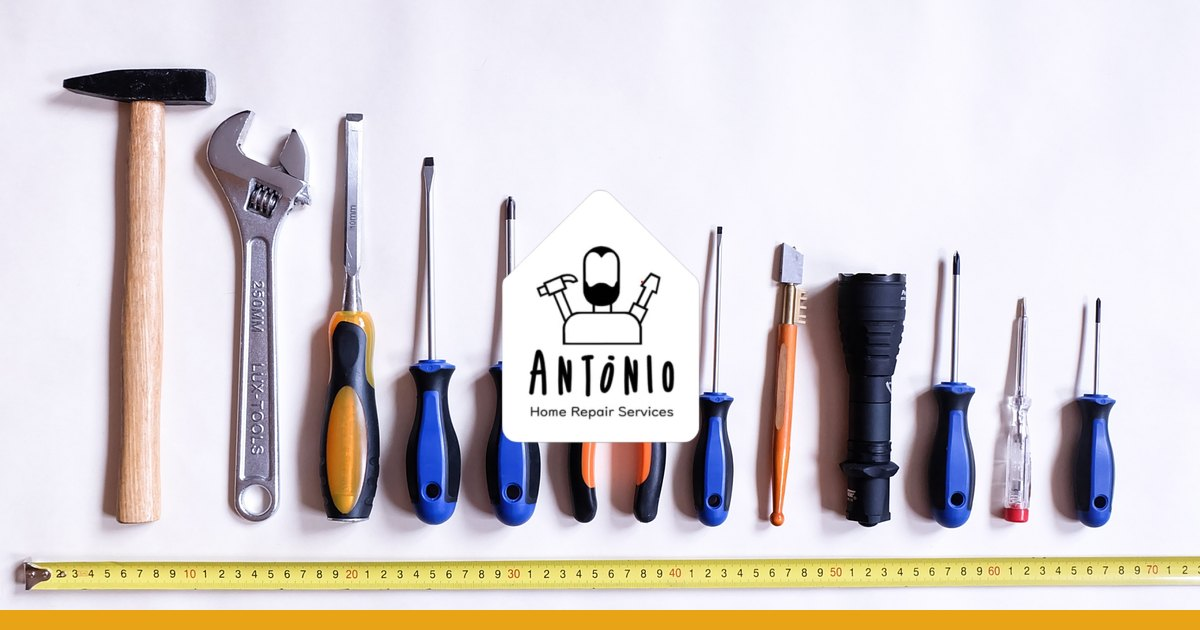
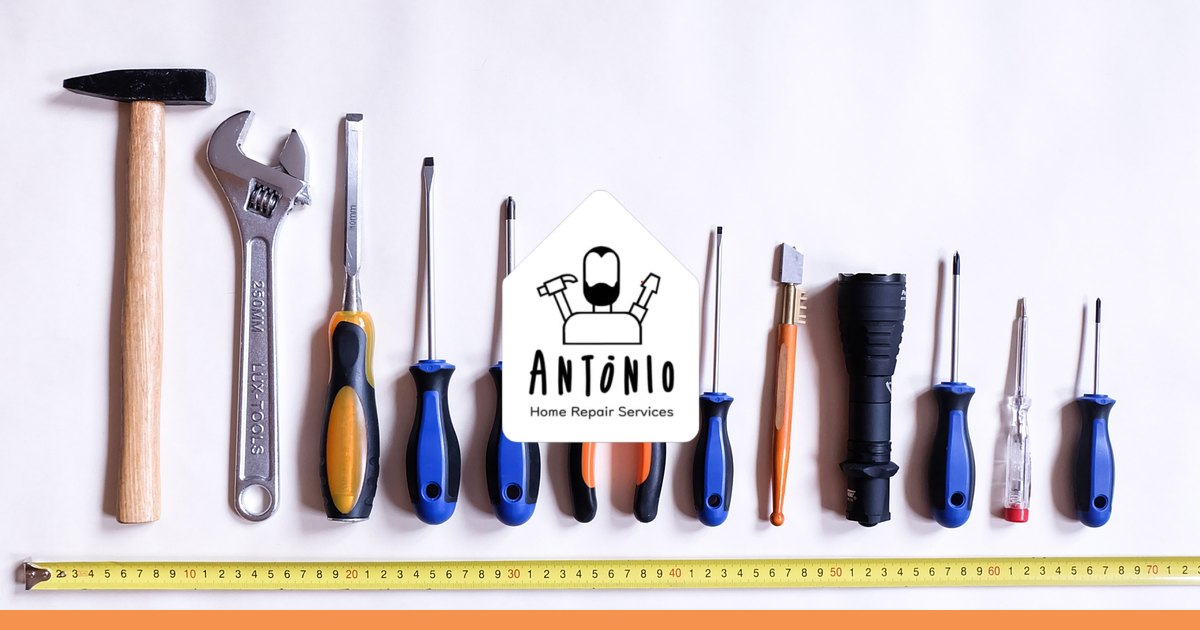
Passa a usar o laranja do cliente, com mais presença
O acento era um âmbar dourado aproximado (#E8A317). Passa a ser o laranja
que o cliente usa mesmo, o #F5924E do site antigo.

## Três tokens, e a razão é medida

O #F5924E é claro. Com preto por cima dá 8,31:1, que é excelente. Sobre o
papel dá 2,19:1 — reprova, e mais do que reprovar, quase não se vê. Serve
para preencher e não serve para desenhar.

Como metade do acento neste site são traços, glifos e filetes sobre fundo
claro — o filete dos pilares, os glifos da casa, o ponto das listas
legais, os desenhos do Sobre Nós, o sublinhado do hero —, trocar o token
por #F5924E e mais nada apagava dezasseis utilizações. Daí:

  laranja        #F5924E  fundo, com preto por cima     8,31 sobre tinta
  laranja-forte  #D16414  traço, glifo, filete, número  3,60 sobre papel
  laranja-texto  #A85410  texto pequeno sobre papel     5,06 sobre papel

Cada uma das 33 utilizações foi para o token que o seu fundo pede — não
foi substituição cega. Os seis rácios estão verificados por cálculo, não
estimados, e nenhum fica abaixo do limiar do uso a que se destina.

Os tokens mudam de nome de `ambar` para `laranja`: um token chamado âmbar
a guardar um laranja é uma mentira para quem lá chegar a seguir.

## A presença, que era o pedido

A faixa de confiança passa a banda laranja cheia, com texto e glifos
pretos. Uma tira de uma linha é o sítio certo para a cor atravessar a
página sem nunca ficar atrás de texto corrido.

Os números 01–08 dos serviços passam a laranja e a 24px. As duas coisas
[…]

Changed region(s): [[0.0, 0.9651, 1.0, 1.0]]

diff --git a/app/globals.css b/app/globals.css
@@ -6,17 +6,32 @@
 
   ## A paleta
 
-  O logo é monocromático puro. O site fica-lhe fiel: preto-tinta sobre papel
-  quente em quase toda a página, e um único âmbar.
+  O logo é monocromático puro, mas o laranja é a cor que o cliente já usa — nas
+  redes, no material impresso, e no site que este substitui. É esse laranja que
+  aqui está, o `#F5924E`, tal e qual.
 
-  **O âmbar não é cor de fundo de secção.** Aparece em botões, no sublinhado do
-  título e no estado activo — mais nada. É precisamente o que separa isto do site
-  antigo, que punha painéis inteiros de laranja #F5924E e por isso lia infantil.
+  O que **não** se repete do site antigo é a escala. Lá havia painéis inteiros
+  de laranja com corpo de texto por cima, e é isso que o faz ler amador. Aqui o
+  laranja atravessa a página em duas tiras — a faixa de confiança e o bloco de
+  fecho — e no resto vive em botões, números, filetes e glifos.
 
-  Duas variantes de âmbar, e a razão é contraste: o `--color-ambar` tem
-  luminância alta demais para texto sobre papel (fica em 2,2:1, reprovado), mas é
-  excelente como fundo de botão com texto tinta por cima (8,4:1). Quando o âmbar
-  precisa de ser *texto*, é o `--color-ambar-texto`, escurecido até passar.
+  ## Três laranjas, e a razão é medida e não gosto
+
+  O `#F5924E` é claro. Sobre o papel dá 2,19:1, que reprova em qualquer critério
+  e, mais importante do que reprovar, quase não se vê. Com preto por cima dá
+  8,31:1, que é excelente.
+
+  Ou seja: serve para **preencher** e não serve para **desenhar**. Como metade
+  do acento neste site são traços, glifos e filetes sobre papel, um token só
+  apagava-os a todos.
+
+    --color-laranja        fundo, com preto por cima      8,31:1 sobre tinta
+    --color-laranja-forte  traço, glifo, filete, número   3,60:1 sobre papel
+    --color-laranja-texto  texto pequeno sobre papel      5,06:1 sobre papel
+
+  A regra, dita de uma vez: **fundo, traço ou texto — cada um tem o seu.** Quem
+  usar o `laranja` num traço sobre papel não vai ver um erro, vai ver o traço
+  desaparecer, que é pior.
 */
 @theme {
   --color-papel: #faf9f7;
@@ -25,8 +40,9 @@
   --color-tinta-suave: #1a1917;
   --color-cinza: #6b6864;
   --color-linha: #ddd8d0;
-  --color-ambar: #e8a317;
-  --color-ambar-texto: #7c5104;
+  --color-laranja: #f5924e;
+  --color-laranja-forte: #d16414;
+  --color-laranja-texto: #a85410;
 
   --font-display: var(--fonte-display), "Archivo", ui-sans-serif, system-ui,
     sans-serif;
@@ -46,16 +62,18 @@ body {
 }
 
 ::selection {
-  background: var(--color-ambar);
+  background: var(--color-laranja);
   color: var(--color-tinta);
 }
 
 /*
-  O foco visível não é opcional. O contorno é tinta e não âmbar porque tem de se
-  ver tanto sobre papel como sobre a banda escura, e o âmbar desaparece no preto.
+  O foco visível não é opcional, e leva o laranja **forte**: o contorno tem de
+  se ver sobre papel e sobre a banda escura, e o `#F5924E` sobre papel dá
+  2,19:1 — um contorno de foco que ninguém vê é o mesmo que não haver contorno.
+  O forte dá 3,60 sobre papel e 5,06 sobre o preto.
 */
 :focus-visible {
-  outline: 2px solid var(--color-ambar);
+  outline: 2px solid var(--color-laranja-forte);
   outline-offset: 3px;
   border-radius: 2px;
 }

diff --git a/components/Perguntas.tsx b/components/Perguntas.tsx
@@ -172,11 +172,11 @@ export function Perguntas() {
         <span className="sr-only sm:hidden">Perguntas frequentes</span>
         <span
           aria-hidden
-          className="font-display text-lg font-bold leading-none text-ambar sm:hidden"
+          className="font-display text-lg font-bold leading-none text-laranja sm:hidden"
         >
           ?
         </span>
-        <Casa className="hidden h-4 w-4 text-ambar sm:block" cheia />
+        <Casa className="hidden h-4 w-4 text-laranja sm:block" cheia />
         <span className="hidden font-display text-[0.75rem] font-semibold uppercase tracking-[0.12em] sm:inline">
           Dúvidas?
         </span>
@@ -191,7 +191,7 @@ export function Perguntas() {
         <div className="flex max-h-[88dvh] flex-col bg-papel shadow-2xl sm:mb-6 sm:max-h-[min(36rem,82dvh)]">
           <div className="flex shrink-0 items-center justify-between gap-4 bg-tinta px-5 py-4 text-papel">
             <div className="flex items-center gap-3">
-              <Casa className="h-5 w-5 shrink-0 text-ambar" cheia />
+              <Casa className="h-5 w-5 shrink-0 text-laranja" cheia />
               <div>
                 <h2 id="titulo-perguntas" className="font-display text-sm font-bold tracking-tight">
                   Perguntas frequentes
@@ -248,7 +248,7 @@ export function Perguntas() {
                               key={item}
                               className="flex items-start gap-2.5 text-[0.875rem] leading-relaxed text-cinza"
                             >
-                              <Casa className="mt-1 h-2.5 w-2.5 shrink-0 text-ambar" cheia />
+                              <Casa className="mt-1 h-2.5 w-2.5 shrink-0 text-laranja-forte" cheia />
                               {item}
                             </li>
                           ))}
@@ -341,7 +341,7 @@ export function Perguntas() {
                 href={site.whatsapp}
                 target="_blank"
                 rel="noopener noreferrer"
-                className="flex flex-1 items-center justify-center gap-2 bg-ambar py-2.5 font-display text-[0.75rem] font-semibold uppercase tracking-[0.1em] text-tinta transition-opacity hover:opacity-90"
+                className="flex flex-1 items-center justify-center gap-2 bg-laranja py-2.5 font-display text-[0.75rem] font-semibold uppercase tracking-[0.1em] text-tinta transition-opacity hover:opacity-90"
               >
                 <Whatsapp className="h-3.5 w-3.5" />
                 WhatsApp
@@ -367,7 +367,7 @@ function Ligacao({
   aoSeguir: () => void;
 }) {
   const classes =
-    "mt-2 inline-flex items-center gap-1.5 text-[0.8125rem] font-medium text-ambar-texto underline decoration-ambar/40 underline-offset-4 transition-colors hover:decoration-ambar";
+    "mt-2 inline-flex items-center gap-1.5 text-[0.8125rem] font-medium text-laranja-texto underline decoration-laranja-forte/40 underline-offset-4 transition-colors hover:decoration-laranja-forte";
 
   if (ligacao.href.startsWith("http")) {
     return (

diff --git a/components/Cta.tsx b/components/Cta.tsx
@@ -1,16 +1,26 @@
 /*
   O fecho: as três maneiras de falar com ele.
 
-  ## O único painel âmbar do site
+  ## O segundo, e último, painel de laranja cheio
 
-  A regra do globals.css diz que o âmbar não é cor de fundo de secção. Esta é a
-  excepção, e é uma só: o último bloco antes do rodapé, onde não há mais nada a
-  competir e onde a cor faz o trabalho de dizer "é aqui que se age". O que
-  estragava o site antigo não era o laranja existir — era existir em seis
-  painéis, com corpo de texto por cima, gravado em imagens.
+  O outro é a faixa de confiança, logo a seguir ao hero. São dois, estão longe
+  um do outro, e em nenhum deles há texto corrido por cima — só um título, uma
+  linha de entrada e três contactos.
 
-  O texto sobre âmbar é tinta e não branco: dá 8,4:1, enquanto branco sobre
-  âmbar não passa dos 2,3:1 e reprovava.
+  É essa a diferença para o site antigo, que tinha seis painéis de laranja com
+  parágrafos inteiros por cima, gravados em imagens. O problema nunca foi o
+  laranja existir; foi a escala a que aparecia e o que lhe punham em cima.
+
+  Este é o último bloco antes do rodapé, onde não há mais nada a competir e onde
+  a cor faz o trabalho de dizer "é aqui que se age".
+
+  O texto sobre laranja é tinta e não branco: dá 8,31:1, enquanto branco sobre
+  este laranja não passa dos 2,3:1 e reprovava.
+
+  As opacidades do texto secundário são 80% e não 70%. A 70% ainda passa —
+  4,73:1 — mas num painel desta área a diferença entre passar e ler-se bem é
+  visível, e é precisamente o texto esbatido sobre laranja que dá ao site antigo
+  o ar que se quer evitar.
 
   A copy é a do site antigo, e os três títulos com ela.
 */
@@ -46,12 +56,12 @@ const vias = [
 
 export function Cta() {
   return (
-    <section className="bg-ambar text-tinta">
+    <section className="bg-laranja text-tinta">
       <div className="mx-auto max-w-6xl px-5 py-20 sm:px-8 md:py-24">
         <h2 className="titulo max-w-2xl text-[clamp(2rem,5.5vw,3.25rem)]">
           Mantenha-se em contacto connosco.
         </h2>
-        <p className="mt-5 max-w-xl text-[1.0625rem] leading-relaxed text-tinta/75">
+        <p className="mt-5 max-w-xl text-[1.0625rem] leading-relaxed text-tinta/80">
           Tem uma reparação ou melhoria em mente para a sua casa? Estamos
           prontos para ajudar.
         </p>
@@ -63,7 +73,7 @@ export function Cta() {
               <h3 className="mt-4 font-display text-base font-bold tracking-tight">
                 {titulo}
               </h3>
-              <p className="mt-2 text-sm leading-relaxed text-tinta/70">{texto}</p>
+              <p className="mt-2 text-sm leading-relaxed text-tinta/80">{texto}</p>
               <a
                 href={href}
                 {...(externo

diff --git a/components/Faixa.tsx b/components/Faixa.tsx
@@ -2,9 +2,19 @@
   A tira de três promessas, entre o hero e os serviços.
 
   Existe porque são as três perguntas que alguém faz antes de ligar a um
-  desconhecido para lhe entrar em casa: vem até aqui? quanto custa saber? quando
-  responde? Três respostas curtas valem mais do que um parágrafo sobre
+  desconhecido para lhe entrar em casa: vem até aqui? quanto custa saber? o que
+  é que faz? Três respostas curtas valem mais do que um parágrafo sobre
   qualidade.
+
+  ## Porquê laranja cheio aqui, e não noutro sítio
+
+  É a cor do cliente e tem de se ver. Uma tira de uma linha é o sítio certo para
+  ela atravessar a página: dá presença sem nunca ficar atrás de texto corrido,
+  que é o que estragava o site antigo — lá o laranja vinha em painéis inteiros,
+  com parágrafos por cima, gravados em imagens.
+
+  O texto e os glifos são preto-tinta e não brancos: sobre este laranja o preto
+  dá 8,31:1 e o branco não passa de 2,3:1.
 */
 import { Casa } from "./Casa";
 
@@ -16,15 +26,15 @@ const promessas = [
 
 export function Faixa() {
   return (
-    <section className="border-y border-linha bg-papel-fundo">
-      <ul className="mx-auto flex max-w-6xl flex-col divide-y divide-linha px-5 sm:px-8 md:flex-row md:divide-x md:divide-y-0">
+    <section className="bg-laranja text-tinta">
+      <ul className="mx-auto flex max-w-6xl flex-col divide-y divide-tinta/15 px-5 sm:px-8 md:flex-row md:divide-x md:divide-y-0">
         {promessas.map((promessa) => (
           <li
             key={promessa}
             className="flex items-center gap-3 py-5 md:flex-1 md:justify-center md:py-6"
           >
-            <Casa className="h-3.5 w-3.5 shrink-0 text-ambar" cheia />
-            <span className="etiqueta text-tinta">{promessa}</span>
+            <Casa className="h-3.5 w-3.5 shrink-0" cheia />
+            <span className="etiqueta">{promessa}</span>
           </li>
         ))}
       </ul>

diff --git a/components/Servicos.tsx b/components/Servicos.tsx
@@ -11,6 +11,15 @@
 
   O hover só existe onde há rato: em telemóvel a casa está sempre visível, senão
   ninguém a vê.
+
+  ## Os números são grandes por causa do contraste, não por gosto
+
+  Passaram de cinzentos e minúsculos a laranja e a 24px. As duas coisas andam
+  juntas: a 11px, a única das três variantes de laranja que passa contraste é a
+  mais escura, e um número castanho de 11px não acrescenta cor nenhuma à página.
+  A 24px contam como texto grande, o limiar desce para 3:1, e aceitam o
+  `laranja-forte` — que se vê. A secção ganha a batida de laranja que se
+  procurava, e de caminho a lista passa a ler-se como o catálogo numerado que é.
 */
 import { servicos } from "@/lib/servicos";
 import { TituloDeSeccao } from "./TituloDeSeccao";
@@ -31,11 +40,11 @@ export function Servicos() {
           <Reveal key={servico.nome} atraso={(i % 4) * 0.06} className="h-full">
             <li className="group h-full border-t border-linha pb-8 pt-5 transition-colors hover:border-tinta">
               <div className="flex items-center justify-between">
-                <span className="etiqueta numeros text-cinza">
+                <span className="numeros font-display text-2xl font-bold leading-none tracking-tight text-laranja-forte">
                   {String(i + 1).padStart(2, "0")}
                 </span>
                 <Casa
-                  className="h-3.5 w-3.5 text-ambar opacity-100 transition-opacity duration-300 md:opacity-0 md:group-hover:opacity-100"
+                  className="h-3.5 w-3.5 text-laranja-forte opacity-100 transition-opacity duration-300 md:opacity-0 md:group-hover:opacity-100"
                   cheia
                 />
               </div>

diff --git a/components/FormularioContacto.tsx b/components/FormularioContacto.tsx
@@ -43,7 +43,7 @@ export function FormularioContacto() {
     return (
       <div
         role="status"
-        className="border-l-2 border-ambar bg-papel-fundo px-6 py-8"
+        className="border-l-2 border-laranja-forte bg-papel-fundo px-6 py-8"
       >
         <h3 className="font-display text-xl font-bold tracking-tight">
           Pedido enviado.
@@ -151,7 +151,7 @@ export function FormularioContacto() {
           type="checkbox"
           required
           aria-invalid={falhou("termos") || undefined}
-          className="mt-0.5 h-4 w-4 shrink-0 accent-ambar"
+          className="mt-0.5 h-4 w-4 shrink-0 accent-laranja-forte"
         />
         <label htmlFor="termos" className="text-sm leading-relaxed text-cinza">
           Declaro que aceito os{" "}
@@ -175,7 +175,7 @@ export function FormularioContacto() {
       <button
         type="submit"
         disabled={pendente}
-        className="mt-1 inline-flex items-center justify-center bg-ambar px-6 py-3.5 font-display text-[0.8125rem] font-semibold uppercase tracking-[0.12em] text-tinta transition-colors hover:bg-tinta hover:text-papel disabled:cursor-progress disabled:opacity-60 disabled:hover:bg-ambar disabled:hover:text-tinta"
+        className="mt-1 inline-flex items-center justify-center bg-laranja px-6 py-3.5 font-display text-[0.8125rem] font-semibold uppercase tracking-[0.12em] text-tinta transition-colors hover:bg-tinta hover:text-papel disabled:cursor-progress disabled:opacity-60 disabled:hover:bg-laranja disabled:hover:text-tinta"
       >
         {pendente ? "A enviar…" : "Enviar pedido"}
       </button>

diff --git a/components/Botao.tsx b/components/Botao.tsx
@@ -1,8 +1,8 @@
 /*
   Os botões do site, em três variantes e num sítio só.
 
-  `ambar` é a acção principal e aparece **uma vez por ecrã**. Um segundo botão
-  âmbar ao lado do primeiro faz com que nenhum dos dois seja o principal.
+  `laranja` é a acção principal e aparece **uma vez por ecrã**. Um segundo botão
+  laranja ao lado do primeiro faz com que nenhum dos dois seja o principal.
   `contorno` é o secundário sobre papel; `claro`, o secundário sobre a banda
   escura.
 
@@ -17,7 +17,7 @@ const BASE =
   "inline-flex items-center justify-center gap-2.5 px-6 py-3.5 font-display text-[0.8125rem] font-semibold uppercase tracking-[0.12em] transition-colors duration-200";
 
 const VARIANTES = {
-  ambar: "bg-ambar text-tinta hover:bg-tinta hover:text-papel",
+  laranja: "bg-laranja text-tinta hover:bg-tinta hover:text-papel",
   contorno:
     "border border-tinta/25 text-tinta hover:border-tinta hover:bg-tinta hover:text-papel",
   claro:
@@ -27,7 +27,7 @@ const VARIANTES = {
 export function Botao({
   href,
   children,
-  variante = "ambar",
+  variante = "laranja",
   className = "",
   externo = false,
 }: {

diff --git a/components/Footer.tsx b/components/Footer.tsx
@@ -54,7 +54,7 @@ export function Footer() {
               <li>
                 <a
                   href={`tel:${site.telefone}`}
-                  className="flex items-center gap-3 transition-colors hover:text-ambar"
+                  className="flex items-center gap-3 transition-colors hover:text-laranja"
                 >
                   <Telefone className="h-4 w-4 shrink-0 text-papel/45" />
                   <span className="numeros">{site.telefoneCompleto}</span>
@@ -63,7 +63,7 @@ export function Footer() {
               <li>
                 <a
                   href={`mailto:${site.email}`}
-                  className="flex items-start gap-3 transition-colors hover:text-ambar"
+                  className="flex items-start gap-3 transition-colors hover:text-laranja"
                 >
                   <Email className="mt-0.5 h-4 w-4 shrink-0 text-papel/45" />
                   <span className="break-all">{site.email}</span>

diff --git a/components/Pilares.tsx b/components/Pilares.tsx
@@ -2,7 +2,7 @@
   Os quatro pilares.
 
   No site antigo eram oito imagens — quatro cartões preto com o título, quatro
-  laranja com o texto. Aqui são texto, com o filete âmbar à esquerda a fazer o
+  laranja com o texto. Aqui são texto, com o filete laranja à esquerda a fazer o
   trabalho que a cor de fundo fazia lá, sem gastar um painel inteiro para isso.
 
   Ver lib/pilares.ts para as transcrições e para o porquê de não terem sido
@@ -24,7 +24,7 @@ export function Pilares() {
         <div className="mt-14 grid gap-x-12 gap-y-10 sm:grid-cols-2">
           {pilares.map((pilar, i) => (
             <Reveal key={pilar.titulo} atraso={(i % 2) * 0.08}>
-              <div className="border-l-2 border-ambar pl-6">
+              <div className="border-l-2 border-laranja-forte pl-6">
                 <h3 className="font-display text-xl font-bold tracking-tight">
                   {pilar.titulo}
                 </h3>

diff --git a/app/sobrenos/page.tsx b/app/sobrenos/page.tsx
@@ -66,11 +66,11 @@ export default function Pagina() {
 
           {/*
             A frase que fecha a página do site antigo, aqui tratada como o que
-            é: a promessa da casa. Em display, grande, e com o filete âmbar do
+            é: a promessa da casa. Em display, grande, e com o filete laranja do
             lado — a única coisa nesta página que não é corpo de texto.
           */}
           <Reveal>
-            <blockquote className="border-l-2 border-ambar pl-6 md:pl-8">
+            <blockquote className="border-l-2 border-laranja-forte pl-6 md:pl-8">
               <p className="titulo text-[clamp(1.5rem,3.2vw,2.125rem)]">
                 Porque aqui, cada cliente é tratado como vizinho — com respeito,
                 honestidade e atenção aos detalhes.

diff --git a/components/CasaEmQuatro.tsx b/components/CasaEmQuatro.tsx
@@ -8,7 +8,7 @@
   é o que a secção diz por palavras, dito outra vez pelo desenho.
 
   O que já lá estava fica esbatido; a parte que **este** pilar acrescenta sai a
-  âmbar e desenha-se quando o cartão entra na vista.
+  laranja e desenha-se quando o cartão entra na vista.
 
   Os caminhos e os nomes das partes estão em `lib/casa.ts`, e não aqui, porque a
   secção que usa este componente é de servidor e precisa dos nomes.
@@ -61,7 +61,7 @@ export function CasaEmQuatro({ passo }: { passo: number }) {
       <path
         d={partesDaCasa[passo - 1].caminho}
         pathLength={1}
-        className={`stroke-ambar ${naVista ? "traco-a-desenhar" : ""}`}
+        className={`stroke-laranja-forte ${naVista ? "traco-a-desenhar" : ""}`}
       />
     </svg>
   );

diff --git a/components/Sublinhado.tsx b/components/Sublinhado.tsx
@@ -1,5 +1,5 @@
 /*
-  O sublinhado do hero: um traço âmbar por baixo de duas palavras do título.
+  O sublinhado do hero: um traço laranja por baixo de duas palavras do título.
 
   É desenhado à mão de propósito — a curva não é recta e as pontas são
   redondas, como um marcador. É a única coisa no site que puxa pelo lado
@@ -17,7 +17,7 @@ export function Sublinhado({ children }: { children: React.ReactNode }) {
         aria-hidden
         viewBox="0 0 300 14"
         preserveAspectRatio="none"
-        className="absolute -bottom-[0.12em] left-0 h-[0.16em] w-full text-ambar"
+        className="absolute -bottom-[0.12em] left-0 h-[0.16em] w-full text-laranja-forte"
       >
         <path
           d="M3 9C55 4 108 11 160 6c40-4 78 3 137-2"
